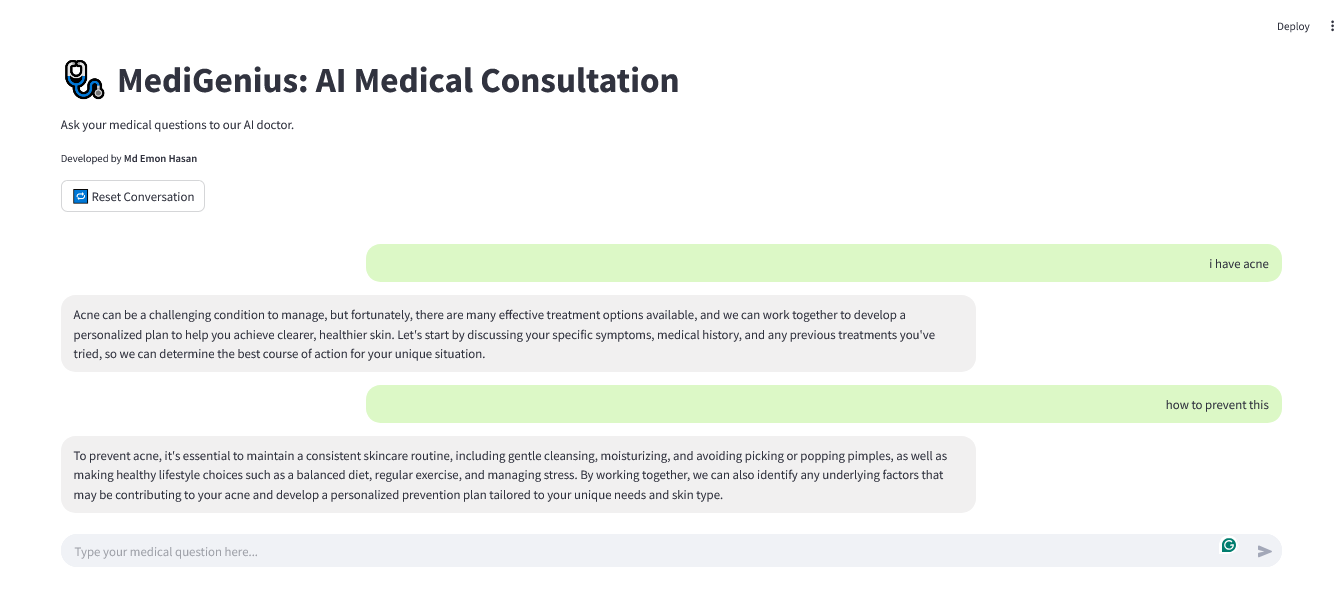
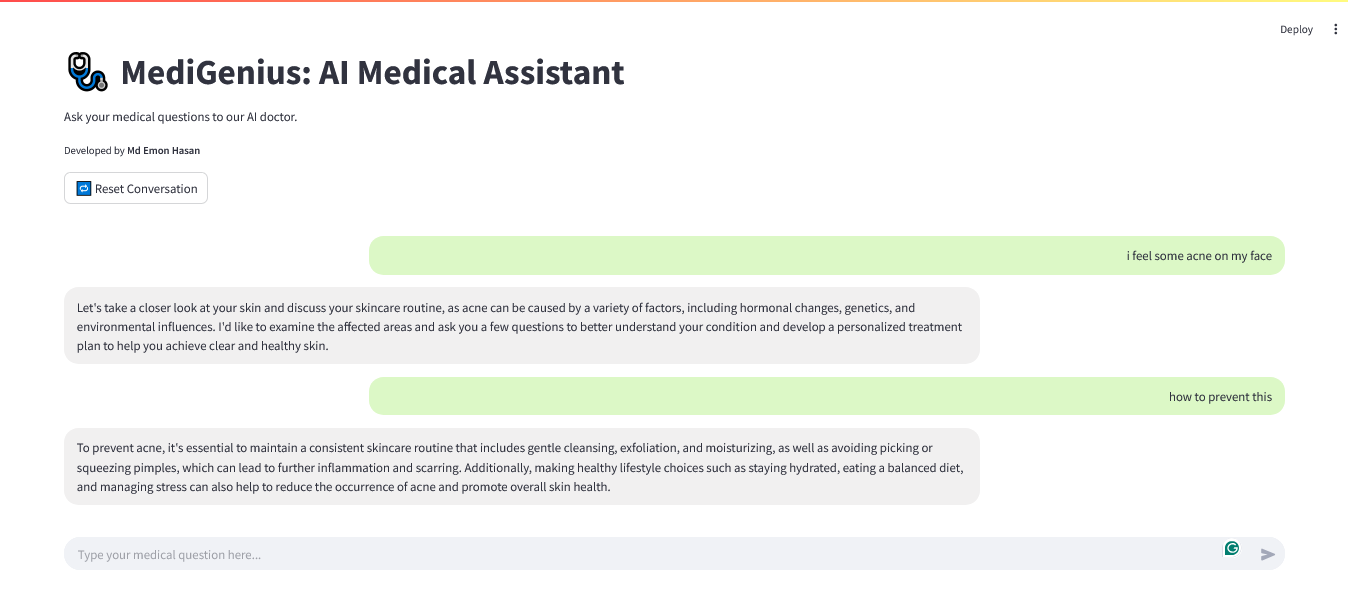
fix bug

diff --git a/setup.py b/setup.py
@@ -5,7 +5,7 @@ setup(
     version='1.0.0',
     author='Md Emon Hasan',
     author_email='iconicemon01@gmail.com',
-    description='Industry-grade Medical AI Chatbot using LangGraph, RAG, and Wikipedia fallback.',
+    description='Industry-grade Medical AI Assistant using LangGraph, RAG, and Wikipedia fallback.',
     long_description=open('README.md').read(),
     long_description_content_type='text/markdown',
     url='https://github.com/Md-Emon-Hasan/MediGenius',

diff --git a/app.py b/app.py
@@ -52,7 +52,7 @@ if 'app' not in st.session_state:
     st.session_state.app, st.session_state.state_manager = initialize_system()
 
 # Header
-st.title("🩺 MediGenius: AI Medical Consultation")
+st.title("🩺 MediGenius: AI Medical Assistant")
 st.markdown("Ask your medical questions to our AI doctor.")
 st.markdown("<small>Developed by <b>Md Emon Hasan</b></small>", unsafe_allow_html=True)
 

diff --git a/README.md b/README.md
@@ -1,12 +1,13 @@
 # 🩺 MediGenius: AI Medical Assistant
-
 An industry-grade, compassionate Medical Assistant with conversational memory that simulates a human doctor using **LLM + RAG + Wikipedia + DuckDuckGo fallback** pipeline. This system ensures the best possible medical response through reliable fallback strategies.
+
+![Image](https://github.com/user-attachments/assets/1a88ac50-d53d-4820-a5d3-c187f704161a)
 
 ---
 
 ## 🚀 Features
 
-- 🤖 **Doctor-like medical chatbot** with conversational memory
+- 🤖 **Doctor-like medical assistant** with conversational memory
 - 🧠 **LLM-powered primary response** engine
 - 📚 **RAG (Retrieval-Augmented Generation)** using domain-specific PDF medical documents
 - 🌐 **Wikipedia fallback** if documents are insufficient
